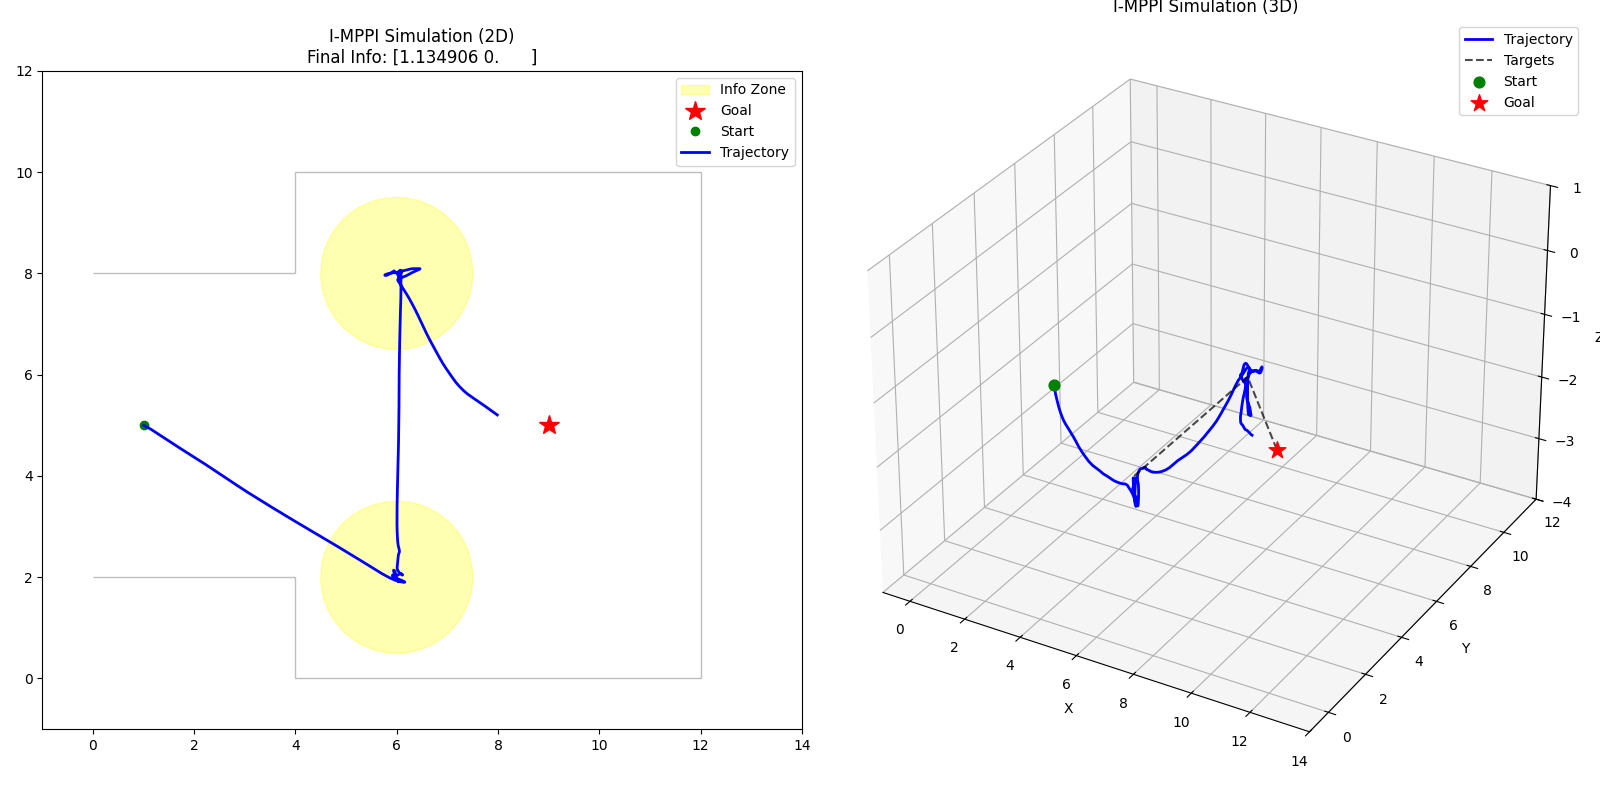
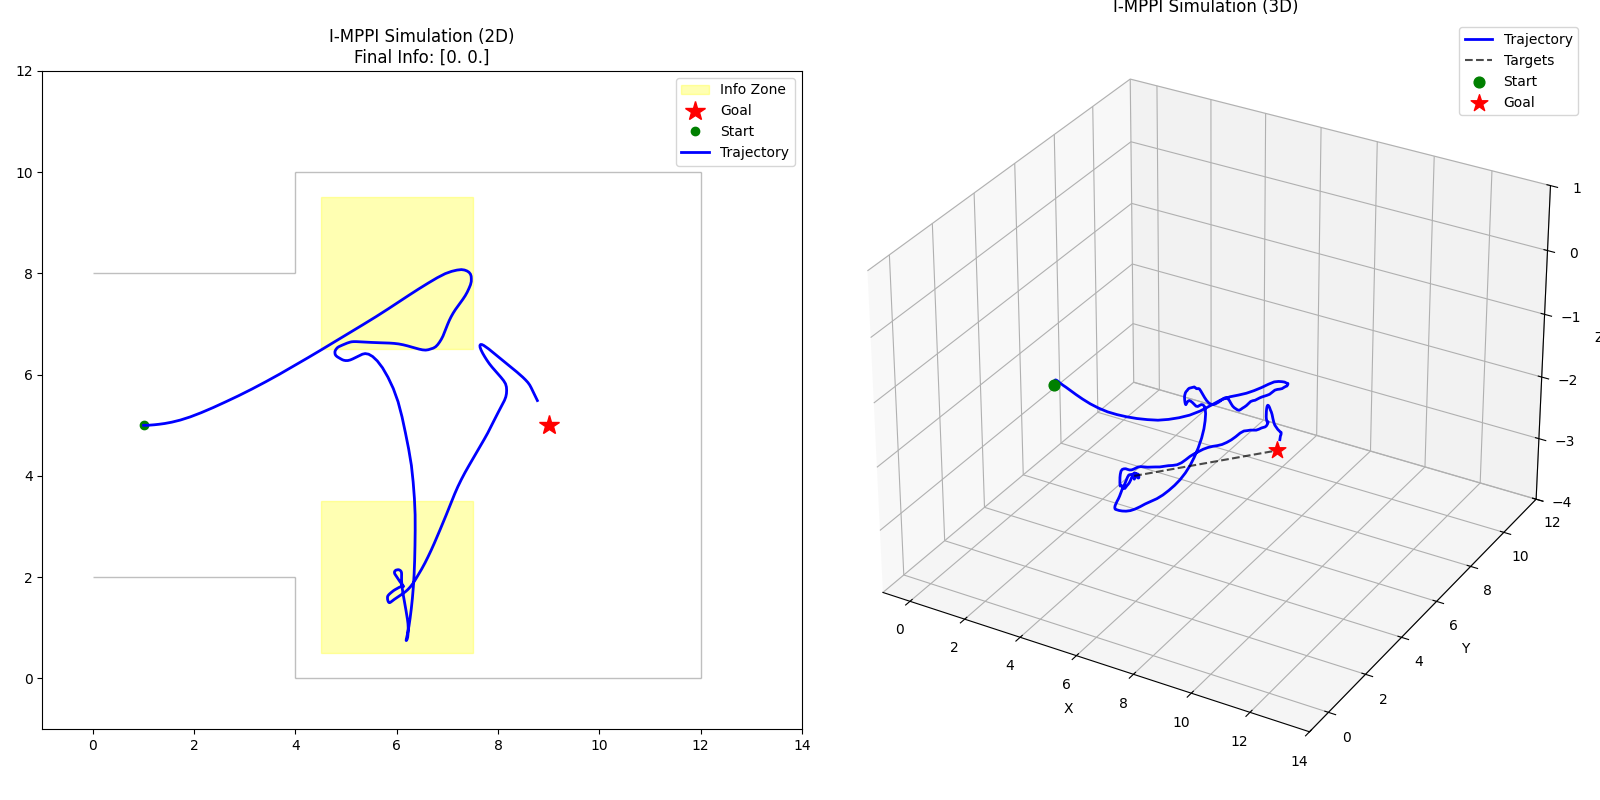
Update I-MPPI environment to use rectangular info zones
Updates `src/jax_mppi/i_mppi/environment.py` to define information zones as rectangles instead of circles, aligning with the theoretical background documentation. Implements `dist_rect` using Signed Distance Function logic for dynamics and cost calculations. Updates `examples/i_mppi_simulation.py` to visualize the zones as rectangles. Adds `tests/test_i_mppi_environment.py` to verify distance calculations.

diff --git a/src/jax_mppi/i_mppi/environment.py b/src/jax_mppi/i_mppi/environment.py
@@ -18,13 +18,23 @@ WALLS = jnp.array([
     [12.0, 0.0, 12.0, 10.0],  # End wall (Vertical)
 ])
 
-# Info sources: [x, y, radius, initial_value]
+# Info sources: [cx, cy, width, height, initial_value]
+# Rectangles 3x3 centered at (6,2) and (6,8)
 INFO_ZONES = jnp.array([
-    [6.0, 2.0, 1.5, 100.0],  # Bottom info zone
-    [6.0, 8.0, 1.5, 100.0],  # Top info zone
+    [6.0, 2.0, 3.0, 3.0, 100.0],  # Bottom info zone
+    [6.0, 8.0, 3.0, 3.0, 100.0],  # Top info zone
 ])
 
 GOAL_POS = jnp.array([9.0, 5.0, -2.0])  # x, y, z (z is neg altitude)
+
+
+def dist_rect(p, center, size):
+    """Calculate distance to a rectangle (0 if inside)."""
+    # p: [x, y], center: [cx, cy], size: [w, h]
+    half_size = size / 2.0
+    d = jnp.abs(p - center) - half_size
+    # exterior distance
+    return jnp.linalg.norm(jnp.maximum(d, 0.0))
 
 
 @partial(jax.jit, static_argnames=["dt"])
@@ -59,13 +69,16 @@ def augmented_dynamics(
     pos = quad_state[:3]
 
     def update_info(info_val, zone_idx):
-        zone_pos = INFO_ZONES[zone_idx, :2]  # x, y
-        radius = INFO_ZONES[zone_idx, 2]
-        dist = jnp.linalg.norm(pos[:2] - zone_pos)
-        # Simple depletion: if inside radius, reduce by rate * dt
-        # Smooth depletion: rate * exp(-dist^2 / radius^2)
+        zone_center = INFO_ZONES[zone_idx, :2]  # cx, cy
+        zone_size = INFO_ZONES[zone_idx, 2:4]  # w, h
+
+        dist = dist_rect(pos[:2], zone_center, zone_size)
+
+        # Simple depletion: if inside or close
+        # Use smooth falloff outside, constant max inside
         rate = 20.0  # info per second
-        depletion = rate * dt * jnp.exp(-(dist**2) / (0.5 * radius) ** 2)
+        # Falloff scale 1.0
+        depletion = rate * dt * jnp.exp(-(dist**2) / (0.5 * 1.0) ** 2)
         return jnp.maximum(0.0, info_val - depletion)
 
     next_info_levels = jax.vmap(update_info)(
@@ -111,11 +124,13 @@ def running_cost(
     def get_info_rate(p, inf):
         rate_sum = 0.0
         for i in range(len(INFO_ZONES)):
-            zone_pos = INFO_ZONES[i, :2]
-            radius = INFO_ZONES[i, 2]
-            dist = jnp.linalg.norm(p[:2] - zone_pos)
+            zone_center = INFO_ZONES[i, :2]
+            zone_size = INFO_ZONES[i, 2:4]
+
+            dist = dist_rect(p[:2], zone_center, zone_size)
+
             # Depletion rate (matches dynamics)
-            dr = 20.0 * jnp.exp(-(dist**2) / (0.5 * radius) ** 2)
+            dr = 20.0 * jnp.exp(-(dist**2) / (0.5 * 1.0) ** 2)
             # Soft check if info exists
             has_info = jnp.tanh(inf[i])
             rate_sum += has_info * dr

diff --git a/tests/test_i_mppi_environment.py b/tests/test_i_mppi_environment.py
@@ -1,0 +1,26 @@
+import jax.numpy as jnp
+from jax_mppi.i_mppi.environment import dist_rect
+
+def test_dist_rect():
+    center = jnp.array([0.0, 0.0])
+    size = jnp.array([2.0, 2.0]) # Half size 1.0, 1.0 (width, height)
+
+    # Inside
+    assert dist_rect(jnp.array([0.0, 0.0]), center, size) == 0.0
+    assert dist_rect(jnp.array([0.5, 0.5]), center, size) == 0.0
+    assert dist_rect(jnp.array([0.9, 0.9]), center, size) == 0.0
+
+    # Boundary (approx)
+    assert jnp.isclose(dist_rect(jnp.array([1.0, 0.0]), center, size), 0.0, atol=1e-6)
+
+    # Outside
+    # x=2.0, center=0.0, half_w=1.0 -> d_x = |2-0| - 1 = 1.0
+    # y=0.0, center=0.0, half_h=1.0 -> d_y = |0-0| - 1 = -1.0
+    # max(d, 0) = [1.0, 0.0] -> norm = 1.0
+    assert jnp.isclose(dist_rect(jnp.array([2.0, 0.0]), center, size), 1.0)
+
+    assert jnp.isclose(dist_rect(jnp.array([0.0, 2.0]), center, size), 1.0)
+
+    # Corner
+    # x=2, y=2 -> d=[1,1] -> norm=sqrt(2)
+    assert jnp.isclose(dist_rect(jnp.array([2.0, 2.0]), center, size), jnp.sqrt(2.0))

diff --git a/examples/i_mppi_simulation.py b/examples/i_mppi_simulation.py
@@ -145,14 +145,17 @@ def main():
 
     # Plot Info Zones
     for i in range(len(INFO_ZONES)):
-        circle = plt.Circle(
-            (INFO_ZONES[i, 0], INFO_ZONES[i, 1]),
-            INFO_ZONES[i, 2],
+        cx, cy = INFO_ZONES[i, 0], INFO_ZONES[i, 1]
+        w, h = INFO_ZONES[i, 2], INFO_ZONES[i, 3]
+        rect = plt.Rectangle(
+            (cx - w / 2, cy - h / 2),
+            w,
+            h,
             color="yellow",
             alpha=0.3,
             label="Info Zone" if i == 0 else "",
         )
-        ax.add_patch(circle)
+        ax.add_patch(rect)
 
     # Plot Goal
     ax.plot(GOAL_POS[0], GOAL_POS[1], "r*", markersize=15, label="Goal")
